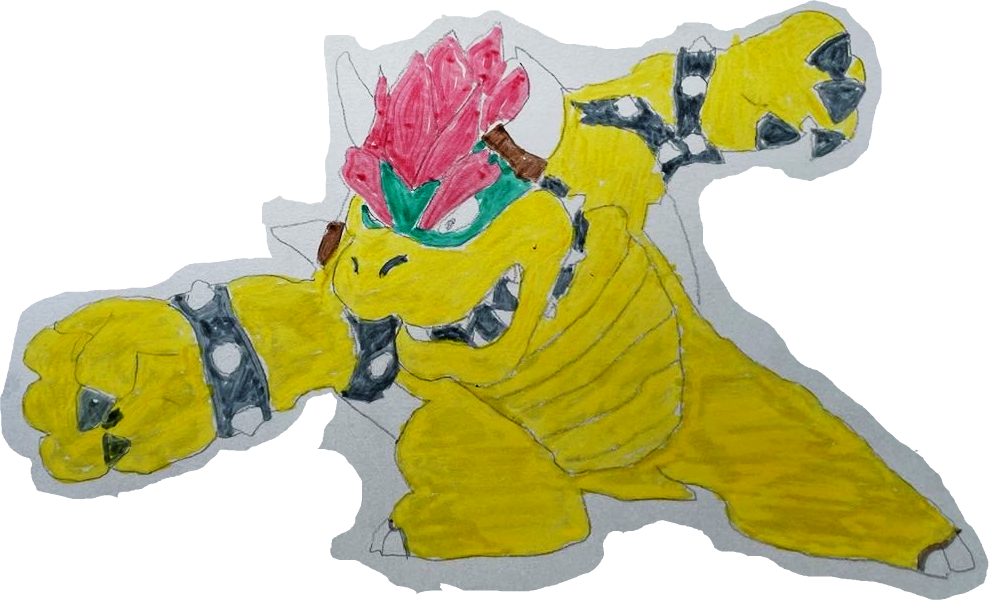
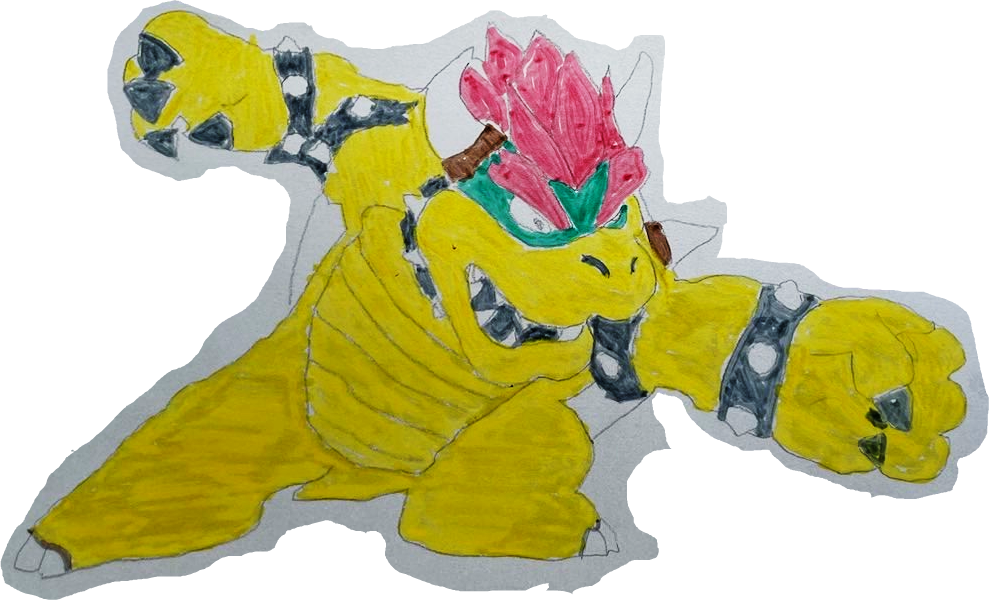
Flip images depending if they are left or right

diff --git a/src/SelectScreen.tsx b/src/SelectScreen.tsx
@@ -2,22 +2,50 @@ import { type Hero } from "./heroes";
 
 type PropsImgSelector = {
   hero: Hero;
+  flip?: boolean;
   next: () => void;
   previous: () => void;
 };
 function ImgSelector(props: PropsImgSelector) {
   return (
     <div className="flex items-center">
-      <button className="mr-1" onClick={props.previous}>
-        prev
+      <button className=" text-stone-500" onClick={props.previous}>
+        <svg
+          xmlns="http://www.w3.org/2000/svg"
+          fill="none"
+          viewBox="0 0 24 24"
+          strokeWidth={1.5}
+          stroke="currentColor"
+          className="w-10 h-10"
+        >
+          <path
+            strokeLinecap="round"
+            strokeLinejoin="round"
+            d="m11.25 9-3 3m0 0 3 3m-3-3h7.5M21 12a9 9 0 1 1-18 0 9 9 0 0 1 18 0Z"
+          />
+        </svg>
       </button>
       <img
+        style={{ transform: props.flip ? "scaleX(-1)" : "scaleX(1)" }}
         className="rounded-full bg-orange-400 h-40 w-40 border-2 border-white drop-shadow"
         src={props.hero.img}
         alt={props.hero.name}
       />
-      <button className="ml-1" onClick={props.next}>
-        next
+      <button className=" text-stone-500" onClick={props.next}>
+        <svg
+          xmlns="http://www.w3.org/2000/svg"
+          fill="none"
+          viewBox="0 0 24 24"
+          strokeWidth={1.5}
+          stroke="currentColor"
+          className="w-10 h-10"
+        >
+          <path
+            strokeLinecap="round"
+            strokeLinejoin="round"
+            d="m12.75 15 3-3m0 0-3-3m3 3h-7.5M21 12a9 9 0 1 1-18 0 9 9 0 0 1 18 0Z"
+          />
+        </svg>
       </button>
     </div>
   );
@@ -30,16 +58,13 @@ function FightBtn(props: { handleClick: () => void }) {
       onClick={props.handleClick}
     >
       <svg
-        className="w-10 h-10"
+        className="w-12 h-12"
         xmlns="http://www.w3.org/2000/svg"
         viewBox="0 0 512 512"
         fill="currentColor"
       >
         <g transform="translate(0,0)">
-          <path
-            d="M91.773 25.994C189.313 167.854 104.52 157.17 65.64 169.2c38.8 52.918 16.554 102.644-44.503 133.788 52.5 21.085 122.25 30.452 42.027 141.707 79.578-45.024 134.707-48.82 127.13 53.15 57.795-58.495 133.043-87.973 208.054-38.53-8.558-73.916 12.66-106.284 86.88-74.4-79.58-73.01-46.696-116.363.458-158.83-81.492-3.232-92.92-65.497-89.922-139.92-49.183 53.518-86.497 47.756-104.002-56.962-33.806 76.857-79.335 125.91-199.99-3.21zM202.15 135.336c16.1.356 25.565 12.198 34.666 24.678L177.312 263.08c-20.422 1.985-35.31-4.577-41.787-24.123l59.51-103.074c1.93-.326 3.772-.503 5.537-.545.534-.013 1.06-.014 1.578-.002zm69.037 11.197c16.1.352 25.567 12.2 34.668 24.676L238.947 290.24c-20.423 1.985-35.31-4.586-41.785-24.127l66.91-119.03c1.93-.327 3.772-.507 5.537-.55.533-.013 1.058-.013 1.577-.002zm58.704 32.05c16.102.357 25.567 12.198 34.67 24.673l-65.945 117.547c-20.423 1.98-35.31-4.58-41.783-24.123l65.94-117.55c1.93-.325 3.773-.502 5.54-.544.532-.013 1.06-.013 1.58-.002zm46.342 55.233c16.773.098 26.746 11.977 36.354 24.485l-55.557 96.227c-20.026 1.297-34.856-5.367-41.786-24.125l55.56-96.224c1.887-.255 3.693-.372 5.428-.362zM127.55 271.713l105.83 47.52c3.015 21.69-2.782 38.788-21.958 48.91L105.588 320.62c-4.508-21.618 8.273-35.485 21.96-48.907z"
-            fill-opacity="1"
-          ></path>
+          <path d="M91.773 25.994C189.313 167.854 104.52 157.17 65.64 169.2c38.8 52.918 16.554 102.644-44.503 133.788 52.5 21.085 122.25 30.452 42.027 141.707 79.578-45.024 134.707-48.82 127.13 53.15 57.795-58.495 133.043-87.973 208.054-38.53-8.558-73.916 12.66-106.284 86.88-74.4-79.58-73.01-46.696-116.363.458-158.83-81.492-3.232-92.92-65.497-89.922-139.92-49.183 53.518-86.497 47.756-104.002-56.962-33.806 76.857-79.335 125.91-199.99-3.21zM202.15 135.336c16.1.356 25.565 12.198 34.666 24.678L177.312 263.08c-20.422 1.985-35.31-4.577-41.787-24.123l59.51-103.074c1.93-.326 3.772-.503 5.537-.545.534-.013 1.06-.014 1.578-.002zm69.037 11.197c16.1.352 25.567 12.2 34.668 24.676L238.947 290.24c-20.423 1.985-35.31-4.586-41.785-24.127l66.91-119.03c1.93-.327 3.772-.507 5.537-.55.533-.013 1.058-.013 1.577-.002zm58.704 32.05c16.102.357 25.567 12.198 34.67 24.673l-65.945 117.547c-20.423 1.98-35.31-4.58-41.783-24.123l65.94-117.55c1.93-.325 3.773-.502 5.54-.544.532-.013 1.06-.013 1.58-.002zm46.342 55.233c16.773.098 26.746 11.977 36.354 24.485l-55.557 96.227c-20.026 1.297-34.856-5.367-41.786-24.125l55.56-96.224c1.887-.255 3.693-.372 5.428-.362zM127.55 271.713l105.83 47.52c3.015 21.69-2.782 38.788-21.958 48.91L105.588 320.62c-4.508-21.618 8.273-35.485 21.96-48.907z"></path>
         </g>
       </svg>
     </button>
@@ -58,7 +83,7 @@ export default function SelectScreen(props: Props) {
   return (
     <div className="bg-stone-200 m-auto h-full flex">
       <div className="mt-10">
-        <div className="w-[600px] m-2 flex gap-x-8 justify-center items-center">
+        <div className="w-[600px] m-2 flex gap-x-6 justify-center items-center">
           <ImgSelector
             hero={props.leftHero}
             previous={props.previousLeftHero}
@@ -66,6 +91,7 @@ export default function SelectScreen(props: Props) {
           />
           <FightBtn handleClick={props.handleClick} />
           <ImgSelector
+            flip
             hero={props.rightHero}
             previous={props.previousRightHero}
             next={props.nextRightHero}

diff --git a/src/Card.tsx b/src/Card.tsx
@@ -25,7 +25,7 @@ type PropsCard = {
   damage: number;
   heartsCnt: number;
   scope: AnimationScope;
-
+  flip?: boolean;
   attack: () => void;
 };
 
@@ -69,6 +69,7 @@ export default function Card(props: PropsCard) {
       <Move scope={props.scope} offset={props.animateOffset}>
         <div style={stl} className="relative z-10">
           <img
+            style={{ transform: props.flip ? "scaleX(-1)" : "scaleX(1)" }}
             src={props.img}
             alt={props.title}
             className="border-solid drop-shadow"

diff --git a/src/heroes.ts b/src/heroes.ts
@@ -38,7 +38,7 @@ export const heroes: Record<string, Hero> = {
     damage: 10,
     hearts: makeHeartsRange(100),
     attackSound: baum,    
-    onLeft: { offset: -50, animateOffset: -250 },
+    onLeft: { offset: -20, animateOffset: -250 },
     onRight: { offset: -50, animateOffset: -250 },
   },
   penumbra: {

diff --git a/src/FightScreen.tsx b/src/FightScreen.tsx
@@ -91,6 +91,7 @@ function FightScreen(props: Props) {
 
         <div className="flex flex-col items-center select-none">
           <Card
+            flip
             scope={props.scopeRight}
             attack={props.rightAttack}
             title={props.rightHero.name}
